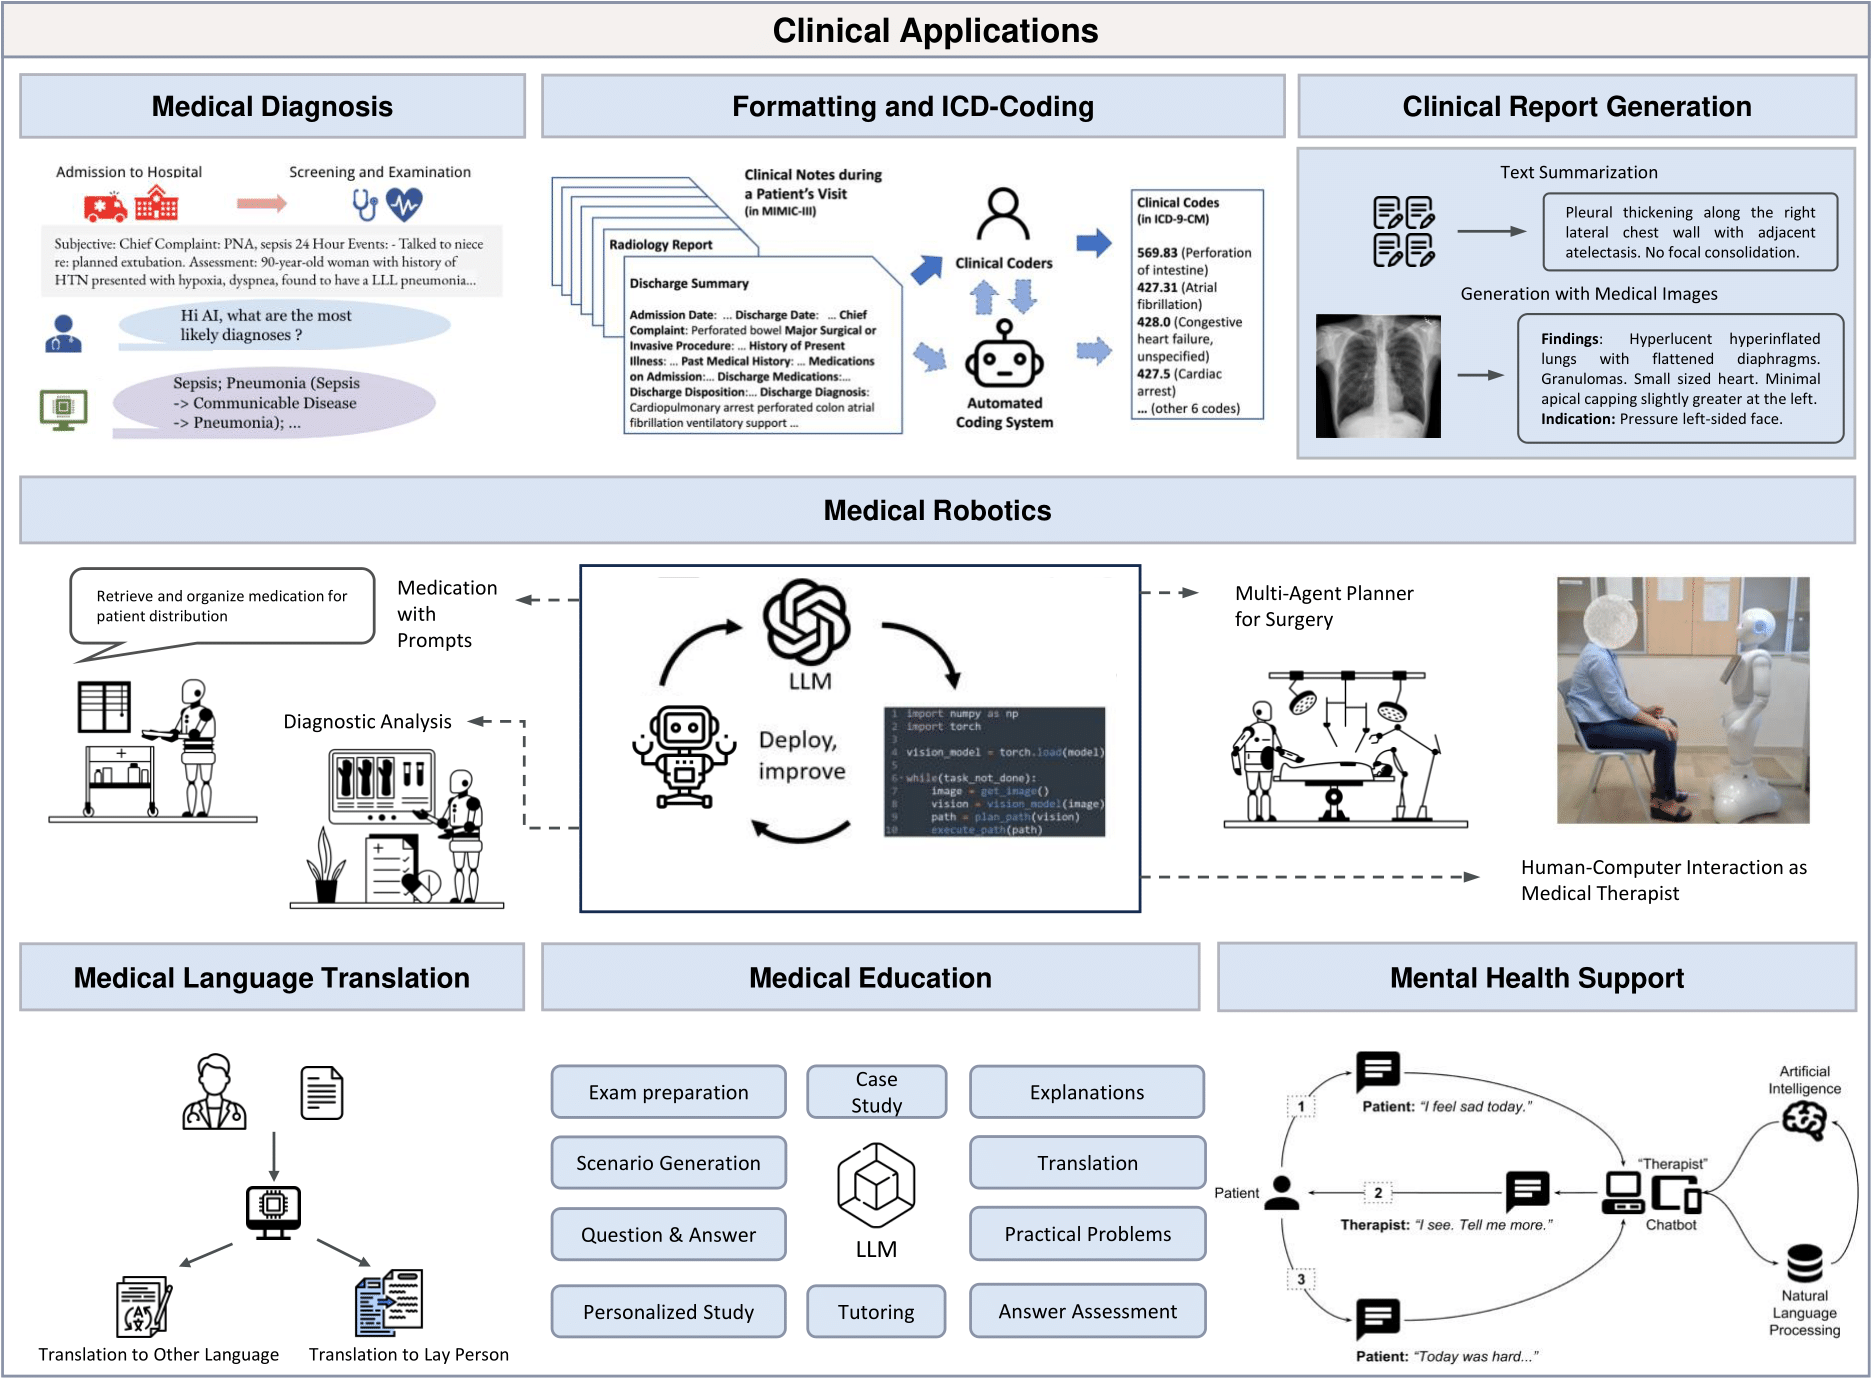
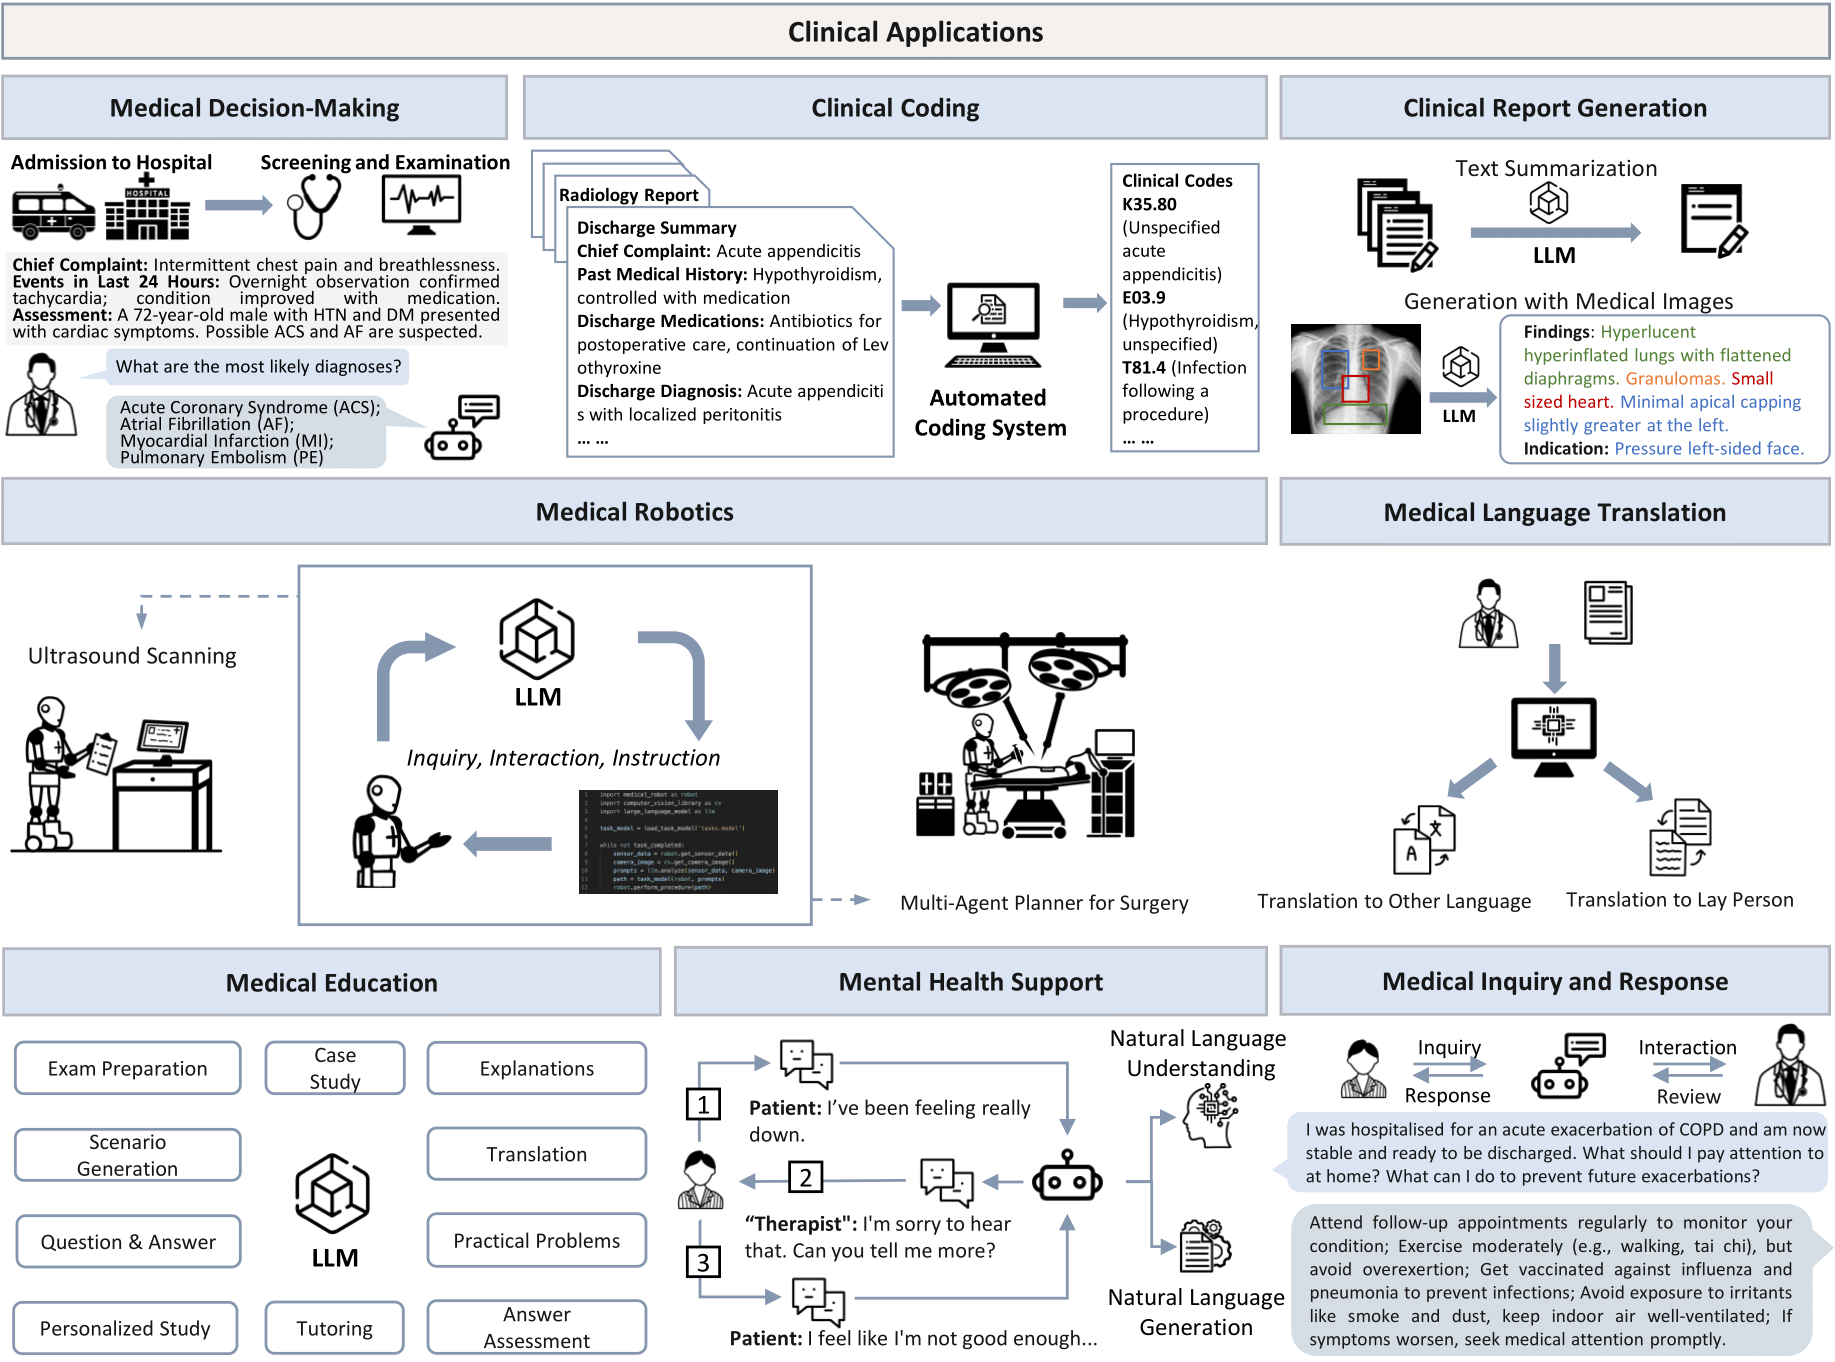
update 0710

diff --git a/README.md b/README.md
@@ -58,7 +58,7 @@ Markdown format:
 **Goal 1: Surpassing Human-Level Expertise**.
 
 <div align=center>
-<img src="img/Medical_LLM_evolution_v2.png" width="800px">
+<img src="img/Medical_LLM_evolution.png" width="800px">
 </div>
 
 **Goal 2: Emergent Properties of Medical LLM with the Model Size Scaling Up**.
@@ -78,12 +78,11 @@ This survey provides a comprehensive overview of the principles, applications, a
 
 This survey aims to provide insights into the opportunities and challenges of LLMs in medicine, and serve as a practical resource for constructing effective medical LLMs. 
 
-
-## Table of Contents
 <div align=center>
-<img src="img/Medical_LLM_outline.png" width="800px">
+<img src="img/Medical_LLM_Introduction.png" width="800px">
 </div>
 
+## Table of Contents
 - [📣 Update News](#-update-news)
 - [⚡ Contributing](#-contributing)
 - [🤔 What are the Goals of the Medical LLM?](#-what-are-the-goals-of-the-medical-llm)
@@ -112,8 +111,8 @@ This survey aims to provide insights into the opportunities and challenges of LL
     - [Information Retrieval](#information-retrieval)
 - [✨ Practical Guide for Clinical Applications](#-practical-guide-for-clinical-applications)
   - [Retrieval-augmented Generation](#retrieval-augmented-generation)
-  - [Medical Diagnosis](#medical-diagnosis)
-  - [Formatting and ICD-Coding](#formatting-and-icd-coding)
+  - [Medical Decision-Making](#medical-decision-making)
+  - [Clinical Coding](#clinical-coding)
   - [Clinical Report Generation](#clinical-report-generation)
   - [Medical Education](#medical-education)
   - [Medical Robotics](#medical-robotics)
@@ -162,7 +161,6 @@ This survey aims to provide insights into the opportunities and challenges of LL
 * [**Arxiv, 2023.12**] **From Beginner to Expert**: Modeling Medical Knowledge into General LLMs. [paper](https://arxiv.org/abs/2312.01040)
 * [**Arxiv, 2023.11**] **Taiyi**: A Bilingual Fine-Tuned Large Language Model for Diverse Biomedical Tasks. [paper](https://arxiv.org/abs/2311.11608) [code](https://github.com/DUTIR-BioNLP/Taiyi-LLM)
 * [**Arxiv, 2023.10**] **AlpaCare**: Instruction-tuned Large Language Models for Medical Application. [paper](https://arxiv.org/abs/2310.14558) [code](https://github.com/XZhang97666/AlpaCare)
-<!-- * [**Arxiv, 2023.10**] **Med42**: A Clinical Large Language Model. [code](https://huggingface.co/m42-health/med42-70b) -->
 * [**Arxiv, 2023.10**] **BianQue**：Balancing the Questioning and Suggestion Ability of Health LLMs with Multi-turn Health Conversations Polished by ChatGPT. [paper](https://arxiv.org/abs/2310.15896)
 * [**Arxiv, 2023.10**] **Qilin-Med**：Multi-stage Knowledge Injection Advanced Medical Large Language Model. [paper](https://arxiv.org/abs/2310.09089)
 * [**Arxiv, 2023.10**] **Qilin-Med-VL**：Towards Chinese Large Vision-Language Model for General Healthcare. [paper](https://arxiv.org/abs/2310.17956)
@@ -172,6 +170,7 @@ This survey aims to provide insights into the opportunities and challenges of LL
 * [**Arxiv, 2023.8**] **BioMedGPT/OpenBioMed** Open Multimodal Generative Pre-trained Transformer for BioMedicine. [paper](https://arxiv.org/abs/2308.09442) [code](https://github.com/PharMolix/OpenBioMed)
 * [**Nature Digital Medicine, 2023.8**] Large Language Models to Identify Social Determinants of Health in Electronic Health Records. [paper](https://arxiv.org/abs/2308.06354) [[code]](https://github.com/AIM-Harvard/SDoH)
 * [**Arxiv, 2023.8**] **Zhongjing**：Enhancing the Chinese medical capabilities of large language model through expert feedback and real-world multi-turn dialogue. [paper](https://arxiv.org/abs/2308.03549)
+* [**Arxiv, 2023.7**] **Med-Flamingo**：Med-Flamingo: a Multimodal Medical Few-shot Learner. [paper](https://arxiv.org/abs/2307.15189) [code](https://github.com/snap-stanford/med-flamingo)
 * [**Arxiv, 2023.6**] **ClinicalGPT**：Large Language Models Finetuned with Diverse Medical Data and Comprehensive Evaluation. 2023. [paper](https://arxiv.org/abs/2306.09968)
 * [**Cureus, 2023.6**] **ChatDoctor**：A Medical Chat Model Fine-Tuned on a Large Language Model Meta-AI (LLaMA) Using Medical Domain Knowledge. [paper](https://www.cureus.com/articles/152858-chatdoctor-a-medical-chat-model-fine-tuned-on-a-large-language-model-meta-ai-llama-using-medical-domain-knowledge.pdf)
 * [**NeurIPS Datasets/Benchmarks Track, 2023.6**] **LLaVA-Med**: Training a large language-and-vision assistant for biomedicine in one day. [paper](https://arxiv.org/abs/2306.00890)
@@ -255,7 +254,7 @@ This survey aims to provide insights into the opportunities and challenges of LL
 ## 🗂 Downstream Biomedical Tasks
 
 <div align=center>
-<img src="img/eva.png" width="800px">
+<img src="img/Medical_LLM_evaluation.png" width="800px">
 </div>
 
 ### Generative Tasks
@@ -358,14 +357,15 @@ This survey aims to provide insights into the opportunities and challenges of LL
 * [**Arxiv, 2023**] Think and Retrieval: A Hypothesis Knowledge Graph Enhanced Medical Large Language Models. [paper](https://arxiv.org/pdf/2312.15883.pdf)
 * [**JASN, 2023**] Retrieve, Summarize, and Verify: How Will ChatGPT Affect Information Seeking from the Medical Literature? [paper](https://journals.lww.com/jasn/fulltext/2023/08000/retrieve,_summarize,_and_verify__how_will_chatgpt.4.aspx)
 
-### Medical Diagnosis
+### Medical Decision-Making
+* [**Nature, 2023**] **NYUTron** Health system-scale language models are all-purpose prediction engines [paper](https://www.nature.com/articles/s41586-023-06160-y)
 * [**Arxiv, 2023**] Leveraging a medical knowledge graph into large language models for diagnosis prediction. [paper](https://arxiv.org/abs/2308.14321)
 * [**Arxiv, 2023**] ChatCAD+/Chatcad: Interactive computer-aided diagnosis on medical image using large language models. [paper](https://arxiv.org/abs/2302.07257) [code](https://github.com/zhaozh10/ChatCAD)
 * [**Cancer Inform, 2023**] Designing a Deep Learning-Driven Resource-Efficient Diagnostic System for Metastatic Breast Cancer: Reducing Long Delays of Clinical Diagnosis and Improving Patient Survival in Developing Countries. [paper](https://arxiv.org/abs/2308.02597)
 * [**Nature Medicine, 2023**] Large language models in medicine. [paper](https://www.nature.com/articles/s41591-023-02448-8)
 * [**Nature Medicine, 2022**] AI in health and medicine. [paper](https://www.nature.com/articles/s41591-021-01614-0)
 
-### Formatting and ICD-Coding
+### Clinical Coding
 * [**JMAI, 2023**] Applying large language model artificial intelligence for retina International Classification of Diseases (ICD) coding. [paper](https://jmai.amegroups.org/article/view/8198/html)
 * [**ClinicalNLP Workshop, 2022**] PLM-ICD: automatic ICD coding with pretrained language models. [paper](https://arxiv.org/abs/2207.05289) [code](https://github.com/MiuLab/PLM-ICD)
 
